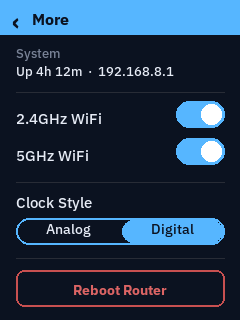
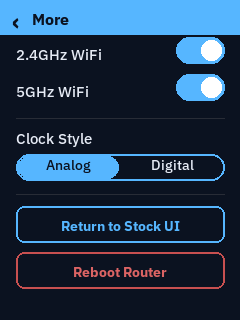
Fix power-button flash/switch-back bug, add Return to Stock UI button
- Rewrote button_watch.py from tap-counting to duration-based press
  classification. The old design (1 tap = sleep toggle, 3 taps within a
  silence window = UI switch) was fragile against contact bounce: a
  single physical tap could register as two raw press/release edges,
  which either got silently swallowed or occasionally miscounted as a
  triple-tap. Matched the exact symptoms reported: screen flashing on
  then immediately back off on a single press, and the UI-switch gesture
  not firing reliably. Now classifies each press/release pair by how
  long it was held, decided the instant it completes -- no artificial
  delay, and bounce within one press doesn't affect the count since
  there's nothing to count anymore.
- Added a "Return to Stock UI" button in More (above Reboot), so
  switching back never depends on getting the power-button timing right.
  Removed the System (uptime/LAN IP) row from More to make room and
  shifted the rest of the panel up.

Bumped the packaged .ipk to 1.2.0.

Changed region(s): [[0.0583, 0.0938, 0.9625, 0.9688], [0.0583, 0.1562, 0.6708, 0.3125], [0.7, 0.1875, 0.7292, 0.25]]

diff --git a/src/dashboard.py b/src/dashboard.py
@@ -315,6 +315,51 @@ def fetch_fx_history(from_code, to_code, rng):
     return cached["points"] if cached else []
 
 
+_fx_hist_cache = {}  # (from_code, to_code, rng) -> {"points": [...] or None, "fetching": bool}
+
+
+def get_fx_history_cached(from_code, to_code, rng):
+    """Non-blocking wrapper around fetch_fx_history. panel_fx() renders
+    from the touch-handling loop (both for normal redraws and for the
+    neighbor-panel pre-render at drag-start), so it can never block on
+    fetch_fx_history's network call -- a cache miss there was measured to
+    freeze the whole UI for up to 6s (curl's --max-time), which got much
+    more likely once Currency stopped being fixed-target-CNY and gained a
+    10x10 from/to combination space. Same reasoning as the repeater-scan
+    background thread: don't call unmeasured/slow I/O synchronously from
+    the touch path. Returns already-available points immediately (empty
+    list if nothing cached yet), kicking off a background fetch instead of
+    blocking."""
+    if from_code == to_code:
+        return fetch_fx_history(from_code, to_code, rng)  # synthetic flat line, no network
+
+    key = (from_code, to_code, rng)
+    entry = _fx_hist_cache.get(key)
+    if entry is None:
+        cache_file = STATE_DIR / f"fx_hist_{from_code}_{to_code}_{rng}.json"
+        cached_points = None
+        if cache_file.exists():
+            try:
+                cached = json.loads(cache_file.read_text())
+                if time.time() - cached.get("ts", 0) < 12 * 3600:
+                    cached_points = cached["points"]
+            except Exception:
+                pass
+        entry = {"points": cached_points, "fetching": False}
+        _fx_hist_cache[key] = entry
+
+    if entry["points"] is None and not entry["fetching"]:
+        entry["fetching"] = True
+
+        def worker():
+            entry["points"] = fetch_fx_history(from_code, to_code, rng)
+            entry["fetching"] = False
+
+        threading.Thread(target=worker, daemon=True).start()
+
+    return entry["points"] or []
+
+
 # WMO weather codes (Open-Meteo) -> (short label, icon key)
 _WMO_MAP = {
     0: ("Clear", "sun"), 1: ("Mostly clear", "sun"), 2: ("Partly cloudy", "cloud_sun"),
@@ -503,6 +548,14 @@ def get_system_info():
 
 def reboot_router():
     subprocess.Popen(["/sbin/reboot"])
+
+
+def switch_to_stock_ui():
+    # Non-blocking: toggle.sh off stops citydash (this very process), so it
+    # has to keep running independently of us -- same pattern as reboot_router
+    # above. run.sh's signal forwarding + the existing power-button hold
+    # gesture already exercise this exact shutdown path.
+    subprocess.Popen(["/root/dashboard/toggle.sh", "off"])
 
 
 # ---------- system monitor (bandwidth + CPU/RAM/temp) ----------
@@ -1198,13 +1251,13 @@ def panel_fx(cfg, fx, fx_range):
     bot_rate = rate_between(bot_from, bot_to, fx)
 
     draw_fx_row(d, 40, 38, top_from, top_rate, top_to)
-    top_hist = fetch_fx_history(top_from, top_to, fx_range)
+    top_hist = get_fx_history_cached(top_from, top_to, fx_range)
     draw_sparkline(d, 16, 62, W - 32, 56, top_hist, ACCENT["fx"])
 
     d.line([16, 126, W - 16, 126], fill=DIM)
 
     draw_fx_row(d, 132, 130, bot_from, bot_rate, bot_to)
-    bot_hist = fetch_fx_history(bot_from, bot_to, fx_range)
+    bot_hist = get_fx_history_cached(bot_from, bot_to, fx_range)
     draw_sparkline(d, 16, 154, W - 32, 56, bot_hist, ACCENT["fx"])
 
     rx0, ry0, rx1, ry1 = FX_RANGE_RECT
@@ -1258,8 +1311,12 @@ def panel_sim(cfg, sim):
     if used is not None and cap:
         pct = max(0, min(100, used / cap * 100))
         bar_w = int((bx1 - bx0 - 4) * pct / 100)
-        if bar_w > 0:
+        if bar_w > 12:
             d.rounded_rectangle([bx0 + 2, by0 + 2, bx0 + 2 + bar_w, by1 - 2], radius=6, fill=ACCENT["sim"])
+        elif bar_w > 0:
+            # PIL's rounded_rectangle breaks ("x1 must be >= x0") when the
+            # shape is thinner than ~2x the corner radius.
+            d.rectangle([bx0 + 2, by0 + 2, bx0 + 2 + bar_w, by1 - 2], fill=ACCENT["sim"])
         caption = f"{pct:.0f}% of {cap_label(cap)} used"
     elif cap is None:
         caption = "no limit set · tap to set"
@@ -1347,8 +1404,14 @@ def panel_monitor(net_down, net_up, net_iface, cpu_pct, ram_pct, ram_used_gb, ra
     d.rounded_rectangle([bx0, by0, bx1, by1], radius=6, outline=DIM, width=1)
     if cpu_pct is not None:
         bw = int((bx1 - bx0 - 4) * cpu_pct / 100)
-        if bw > 0:
+        if bw > 8:
             d.rounded_rectangle([bx0 + 2, by0 + 2, bx0 + 2 + bw, by1 - 2], radius=4, fill=ACCENT["monitor"])
+        elif bw > 0:
+            # PIL's rounded_rectangle breaks ("x1 must be >= x0") when the
+            # shape is thinner than ~2x the corner radius -- plain
+            # rectangle for anything that thin (same fix as elsewhere in
+            # this file for the same underlying PIL quirk).
+            d.rectangle([bx0 + 2, by0 + 2, bx0 + 2 + bw, by1 - 2], fill=ACCENT["monitor"])
 
     d.text((16, 180), "RAM", font=font("default_medium", 14), fill=FG)
     ram_txt = f"{ram_used_gb:.1f} / {ram_total_gb:.1f} GB" if ram_pct is not None else "—"
@@ -1357,8 +1420,10 @@ def panel_monitor(net_down, net_up, net_iface, cpu_pct, ram_pct, ram_used_gb, ra
     d.rounded_rectangle([bx0, by0, bx1, by1], radius=6, outline=DIM, width=1)
     if ram_pct is not None:
         bw = int((bx1 - bx0 - 4) * ram_pct / 100)
-        if bw > 0:
+        if bw > 8:
             d.rounded_rectangle([bx0 + 2, by0 + 2, bx0 + 2 + bw, by1 - 2], radius=4, fill=ACCENT["monitor"])
+        elif bw > 0:
+            d.rectangle([bx0 + 2, by0 + 2, bx0 + 2 + bw, by1 - 2], fill=ACCENT["monitor"])
 
     d.line([16, 230, W - 16, 230], fill=(40, 44, 54))
 
@@ -1446,38 +1511,37 @@ def hit_confirm(x, y):
 
 # ---------- More / settings ----------
 
-MORE_WIFI24_TOGGLE = (176, 101, 224, 127)
-MORE_WIFI5_TOGGLE = (176, 138, 224, 164)
-MORE_CLOCK_STYLE_SEG = (16, 218, 224, 244)
-MORE_REBOOT_RECT = (16, 270, W - 16, 306)
+MORE_WIFI24_TOGGLE = (176, 37, 224, 63)
+MORE_WIFI5_TOGGLE = (176, 74, 224, 100)
+MORE_CLOCK_STYLE_SEG = (16, 154, 224, 180)
+MORE_RETURN_STOCK_RECT = (16, 206, W - 16, 242)
+MORE_REBOOT_RECT = (16, 252, W - 16, 288)
 
 
-def panel_more(sysinfo, wifi24, wifi5, clock_style):
+def panel_more(wifi24, wifi5, clock_style):
     img, d = new_canvas()
     draw_back_header(d, "More", ACCENT["clock"])
 
-    d.text((16, 44), "System", font=font("default_medium", 13), fill=DIM)
-    up_h, up_m = divmod(sysinfo["uptime_min"], 60)
-    d.text((16, 62), f"Up {up_h}h {up_m}m  ·  {sysinfo['lan_ip']}", font=font("default_medium", 13), fill=FG)
-
-    d.line([16, 92, W - 16, 92], fill=(40, 44, 54))
-
-    d.text((16, 108), "2.4GHz WiFi", font=font("default_medium", 15), fill=FG)
+    d.text((16, 44), "2.4GHz WiFi", font=font("default_medium", 15), fill=FG)
     tx0, ty0, tx1, ty1 = MORE_WIFI24_TOGGLE
     draw_toggle(d, tx0, ty0, wifi24, ACCENT["clock"], w=tx1 - tx0, h=ty1 - ty0)
 
-    d.text((16, 145), "5GHz WiFi", font=font("default_medium", 15), fill=FG)
+    d.text((16, 81), "5GHz WiFi", font=font("default_medium", 15), fill=FG)
     tx0, ty0, tx1, ty1 = MORE_WIFI5_TOGGLE
     draw_toggle(d, tx0, ty0, wifi5, ACCENT["clock"], w=tx1 - tx0, h=ty1 - ty0)
 
-    d.line([16, 182, W - 16, 182], fill=(40, 44, 54))
+    d.line([16, 118, W - 16, 118], fill=(40, 44, 54))
 
-    d.text((16, 192), "Clock Style", font=font("default_medium", 15), fill=FG)
+    d.text((16, 128), "Clock Style", font=font("default_medium", 15), fill=FG)
     sx0, sy0, sx1, sy1 = MORE_CLOCK_STYLE_SEG
     sel_idx = 0 if clock_style == "analog" else 1
     draw_segmented(d, sx0, sy0, sx1 - sx0, sy1 - sy0, ["Analog", "Digital"], sel_idx, ACCENT["clock"])
 
-    d.line([16, 258, W - 16, 258], fill=(40, 44, 54))
+    d.line([16, 194, W - 16, 194], fill=(40, 44, 54))
+
+    rx0, ry0, rx1, ry1 = MORE_RETURN_STOCK_RECT
+    d.rounded_rectangle([rx0, ry0, rx1, ry1], radius=8, outline=ACCENT["clock"], width=2)
+    centered_text(d, (rx0 + rx1) / 2, ry0 + 10, "Return to Stock UI", font("default_bold", 14), ACCENT["clock"])
 
     rx0, ry0, rx1, ry1 = MORE_REBOOT_RECT
     d.rounded_rectangle([rx0, ry0, rx1, ry1], radius=8, outline=(200, 80, 80), width=2)
@@ -1496,6 +1560,9 @@ def hit_more(x, y):
     sx0, sy0, sx1, sy1 = MORE_CLOCK_STYLE_SEG
     if sx0 <= x <= sx1 and sy0 <= y <= sy1:
         return "clock_analog" if x < (sx0 + sx1) / 2 else "clock_digital"
+    rx0, ry0, rx1, ry1 = MORE_RETURN_STOCK_RECT
+    if rx0 <= x <= rx1 and ry0 <= y <= ry1:
+        return "return_stock"
     rx0, ry0, rx1, ry1 = MORE_REBOOT_RECT
     if rx0 <= x <= rx1 and ry0 <= y <= ry1:
         return "reboot"
@@ -1920,7 +1987,7 @@ def mode_preview(outdir):
         ("datacap", panel_datacap_picker(cfg)),
         ("oc_nodes", panel_node_picker(traf)),
         ("weather_city", panel_weather_picker(cfg)),
-        ("more", panel_more(sysinfo, wifi24, wifi5, cfg["clock_style"])),
+        ("more", panel_more(wifi24, wifi5, cfg["clock_style"])),
         ("repeater", panel_repeater(rep, rep_networks)),
         ("confirm", panel_confirm("Reboot", "Reboot the router now?", ACCENT["clock"], yes_label="Reboot", danger=True)),
         ("keyboard", panel_keyboard("Wi-Fi Password", "myPass", "letters", True, ACCENT["clock"])),
@@ -2277,7 +2344,6 @@ def mode_live():
                             start_repeater_scan()
                         elif name == "clock" and zone == "more":
                             new_view = "more"
-                            sysinfo = get_system_info()
                             wifi24 = get_wifi_radio_state("wifi0")
                             wifi5 = get_wifi_radio_state("wifi1")
                         elif name == "fx" and zone == "top_from":
@@ -2412,7 +2478,7 @@ def mode_live():
 
             if sub_dirty:
                 if view == "more":
-                    img = panel_more(sysinfo, wifi24, wifi5, cfg["clock_style"])
+                    img = panel_more(wifi24, wifi5, cfg["clock_style"])
                 elif view == "repeater":
                     img = panel_repeater(rep, rep_networks)
                 elif view == "confirm":
@@ -2502,6 +2568,8 @@ def mode_live():
                         cfg["clock_style"] = "digital"
                         save_config(cfg)
                         sub_dirty = True
+                    elif action == "return_stock":
+                        switch_to_stock_ui()
                     elif action == "reboot":
                         confirm_title = "Reboot"
                         confirm_message = "Reboot the router now?"

diff --git a/src/button_watch.py b/src/button_watch.py
@@ -1,20 +1,30 @@
 #!/usr/bin/env python3
 """Watches the power/home button (pmic_pwrkey, KEY_POWER):
-  - 1 press  -> toggle the screen's backlight on/off (sleep/wake)
-  - 3 presses within the window -> toggle between the custom dashboard and
-    the stock GL.iNet screen
-  - 2 presses -> ignored (ambiguous)
+  - quick tap            -> toggle the screen's backlight on/off (sleep/wake)
+  - press-and-hold ~1-2s -> toggle between the custom dashboard and the
+                            stock GL.iNet screen
 
-A press isn't acted on immediately -- we wait for a short silence after the
-last press before deciding, so a triple-tap doesn't also fire the
-single-press action on its first press.
+Fires the moment you release the button -- no waiting to see whether more
+presses follow. Runs as its own always-on service, independent of which
+screen UI is currently active. Passively reads /dev/input/event1 (does not
+grab it exclusively), so it never interferes with any other consumer of
+the power key. A genuine long hold well past HOLD_MAX is handled entirely
+separately, at the kernel/procd level, by /etc/rc.button/power ->
+poweroff; this script only acts within its own short hold-time window and
+doesn't intersect with that path.
 
-Runs as its own always-on service, independent of which screen UI is
-currently active. Passively reads /dev/input/event1 (does not grab it
-exclusively), so it never interferes with any other consumer of the power
-key. A long hold is handled entirely separately by /etc/rc.button/power
-(-> poweroff) through a different kernel pathway; this script only ever
-sees short taps.
+Rewritten 2026-07-26 from an earlier tap-counting design (1 press = sleep
+toggle, 3 presses within a silence window = UI switch, decided ~0.6s after
+the last press). Measured on the real device: a single physical tap can
+produce two raw press/release cycles several hundred ms apart (contact
+bounce, and/or the user pressing again since the old design gave zero
+feedback for ~0.6s). That fed a bogus tap count -- silently ignored, or
+occasionally miscounted as 3 (unwanted UI switch) -- matching the exact
+symptom reported: "press power, nothing happens" alternating with "screen
+flashes on then immediately off". Duration-based detection sidesteps this
+entirely: each press/release pair is handled on its own the instant it
+completes, so it doesn't matter how many raw edges bounce in between, and
+there's no artificial delay for the common quick-tap case.
 """
 import os
 import struct
@@ -27,7 +37,10 @@ EVENT_SIZE = struct.calcsize(EVENT_FMT)
 EV_KEY = 1
 KEY_POWER = 116
 
-SILENCE_WINDOW = 0.6  # seconds of silence after the last press before deciding
+DEBOUNCE = 0.08   # ignore edges within this long of the last one (contact bounce)
+HOLD_MIN = 1.0    # held at least this long on release -> UI switch, not a tap
+HOLD_MAX = 2.5    # held longer than this -> assume it's headed for the hardware's
+                  # own long-press poweroff; don't act on release at all
 
 TOGGLE = "/root/dashboard/toggle.sh"
 SLEEP_TOGGLE = "/root/dashboard/screen_sleep.sh"
@@ -44,16 +57,17 @@ def dashboard_running():
 def do_ui_toggle():
     target = "off" if dashboard_running() else "on"
     subprocess.run([TOGGLE, target])
-    subprocess.run(["logger", "-t", "homebutton", f"triple-tap -> toggle {target}"])
+    subprocess.run(["logger", "-t", "homebutton", f"hold -> toggle {target}"])
 
 
 def do_sleep_toggle():
     subprocess.run([SLEEP_TOGGLE, "toggle"])
-    subprocess.run(["logger", "-t", "homebutton", "single-tap -> sleep toggle"])
+    subprocess.run(["logger", "-t", "homebutton", "tap -> sleep toggle"])
 
 
 def main():
-    presses = []
+    down_at = None
+    last_edge = 0.0
     with open(DEV, "rb") as f:
         fd = f.fileno()
         os.set_blocking(fd, False)
@@ -64,19 +78,24 @@ def main():
                 data = None
             if data and len(data) == EVENT_SIZE:
                 _, _, typ, code, val = struct.unpack(EVENT_FMT, data)
-                if typ == EV_KEY and code == KEY_POWER and val == 1:
-                    presses.append(time.time())
+                if typ == EV_KEY and code == KEY_POWER and val in (0, 1):
+                    now = time.time()
+                    if now - last_edge < DEBOUNCE:
+                        continue
+                    last_edge = now
+                    if val == 1 and down_at is None:
+                        down_at = now
+                    elif val == 0 and down_at is not None:
+                        held = now - down_at
+                        down_at = None
+                        if held < HOLD_MIN:
+                            do_sleep_toggle()
+                        elif held <= HOLD_MAX:
+                            do_ui_toggle()
+                        # held > HOLD_MAX: leave it to the hardware's own
+                        # long-press path, don't act here.
             else:
-                time.sleep(0.02)
-
-            if presses and time.time() - presses[-1] > SILENCE_WINDOW:
-                count = len(presses)
-                presses = []
-                if count == 1:
-                    do_sleep_toggle()
-                elif count >= 3:
-                    do_ui_toggle()
-                # count == 2: no defined action
+                time.sleep(0.01)
 
 
 if __name__ == "__main__":

diff --git a/README.md b/README.md
@@ -61,7 +61,9 @@ open networks directly or opens the on-screen keyboard for a password.
 Uses the same `ubus` `repeater` object the stock GL.iNet UI uses.
 
 **More** (from the Home tile) — 2.4GHz/5GHz radio toggles, an Analog/Digital
-clock-style switch, uptime/LAN IP, and a confirm-gated reboot.
+clock-style switch, a **Return to Stock UI** button (switches back
+immediately, no confirm dialog — same effect as the power-button hold
+gesture, just more discoverable/reliable), and a confirm-gated reboot.
 
 **On-screen keyboard** — built because this screen has no physical or
 pop-up keyboard. Two layers (letters/symbols), persistent caps toggle.
@@ -73,12 +75,19 @@ pop-up keyboard. Two layers (letters/symbols), persistent caps toggle.
 - **Tap** into a panel for detail screens (pick a city, pick a currency, set
   a data cap, configure OpenClash's node, etc). Tap the header or swipe
   right to go back.
-- **Triple-press the power button** to switch between this dashboard and the
-  stock GL.iNet screen at any time (round-trip tested at ~0.3-1.5s).
-- **Single-press the power button** to sleep/wake the screen — real
-  backlight control, not a fake black frame. (Disambiguated from the
-  triple-press by waiting 0.6s of silence after the last press before
-  acting, so a triple-tap doesn't also fire the single-press action.)
+- **Hold the power button ~1-2.5s** to switch between this dashboard and the
+  stock GL.iNet screen at any time (round-trip tested at ~0.3-1.5s). Or use
+  **More → Return to Stock UI** for the same switch without touching the
+  power button at all.
+- **Quick-tap the power button** to sleep/wake the screen — real backlight
+  control, not a fake black frame. Classified by press *duration* on
+  release (tap vs. hold), not by counting presses — an earlier tap-counting
+  design (single tap = sleep, triple tap = switch UI) turned out to be
+  fragile against contact bounce, where one physical tap could register as
+  two raw press/release edges; duration-based detection sidesteps that
+  since each press/release pair is handled the instant it completes.
+  Holding past ~2.5s is left alone entirely and falls through to the
+  hardware's own long-press-to-poweroff path.
 
 ## Requirements
 
